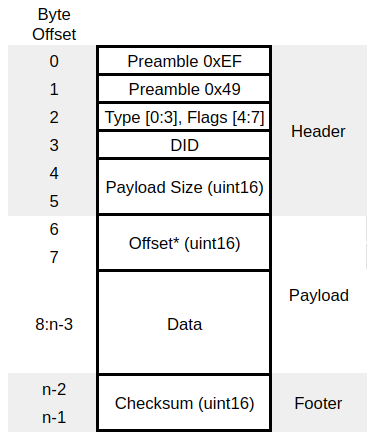
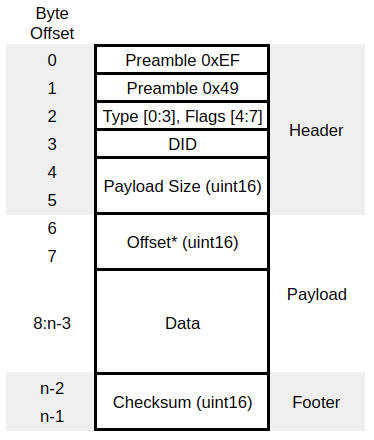
Mostly finished with essential v2 protocol documentation

diff --git a/docs/user-manual/com-protocol/isb.md b/docs/user-manual/com-protocol/isb.md
@@ -175,7 +175,7 @@ The following parser code uses less processor time to parse data by copying mult
 
 ## ISB Packet Structure
 
-The SDK is provided to encode and decode binary packets. This section can be disregarded if the SDK is used.  This section is provided to detail the packet and data structures format used in the binary protocol.  The IMX and GPX communicate using the following binary packet structure:
+The SDK is provided to encode and decode binary packets.  This section is provided to detail the packet structure used in the Inertial Sense binary (ISB) protocol standard in the 2.x protocol and 2.x software releases.  The IMX and GPX communicate using the following binary packet structure:
 
 ![packet_structure](images/pkt_structure.png)
 <p style="text-align: center;">
@@ -185,29 +185,47 @@ Figure 1 – Packet Structure
 </i>
 </span>
 </p>
-<sub>*The first two bytes of the payload may be a uint16 offset of the data for the target DID data set if the flag ISB_FLAGS_PAYLOAD_W_OFFSET is set.</sub> 
+### Packet with Data Offset
+
+*The first two bytes of the payload may be a uint16 offset for the data into the target data set if the flag ISB_FLAGS_PAYLOAD_W_OFFSET is set.  The following is an example of when the the data offset flag is set.
 
 ![Packet Structure with data offset](images/pkt_structure_w_offset.png)
 
 <p style="text-align: center;">
 <span style="color:grey">
 <i>
-Figure 2 – Packet Structure with Data Offset
+Figure 2 – Packet with Data Offset
 </i>
 </span>
 </p>
 
-**Packet data may be 0 bytes, depending on packet identifier (PID)**
+### Packet with No Payload
+
+Packet types `PKT_TYPE_STOP_BROADCASTS_ALL_PORTS`, `PKT_TYPE_STOP_DID_BROADCAST`, 
+`PKT_TYPE_STOP_BROADCASTS_CURRENT_PORT` have payload size zero and no payload.  
+
+![](images/pkt_structure_no_payload.png)
+
+<p style="text-align: center;">
+<span style="color:grey">
+<i>
+Figure 3 – Packet with No Payload
+</i>
+</span>
+</p>
+
+### Get Data Type Packet
 
 ![](images/pkt_structure_get_data.png)
 
 <p style="text-align: center;">
 <span style="color:grey">
 <i>
-Figure 2 – PKT_TYPE_GET_DATA Packet
+Figure 4 – PKT_TYPE_GET_DATA Packet
 </i>
 </span>
 </p>
+
 ### Packet Type
 
 The packet type is lower nibble (bits 0:3) at byte offset 2 in the packet.
@@ -232,31 +250,23 @@ The packet type is the upper nibble (bits 4:7) at byte offset 2 in the packet.
 | `ISB_FLAGS_EXTENDED_PAYLOAD` | 0x10  | Payload is larger than 2048 bytes and extends into next packet. |
 | `ISB_FLAGS_PAYLOAD_W_OFFSET` | 0x20  | The first two bytes of the payload are the byte offset of the payload data into the data set. |
 
-The format of the packet data is determined by the packet identifier.  For a data packet (PKT_TYPE_DATA (4) or
-PKT_TYPE_SET_DATA (5)) the first 12 bytes are always the data identifier (4 byte int), the offset into the data (4 byte int), and the length of data (4 byte int, not including the 12 bytes or packet header / footer).
+### Packet Checksum
 
+The ISB packet footer contains a Fletcher-16 (16-bit integer).  This checksum is computed for the entire packet byte sequence excluding the last two checksum bytes.  The following algorithm is used for this checksum.  The initial value (`cksum_init`) is zero.  
 
-**Packet footer (4 bytes)**<br>
-1 byte – checksum byte A (most significant byte)<br>
-1 byte – checksum byte B (middle byte)<br>
-1 byte – checksum byte C (least significant byte)<br>
-1 byte – packet stop byte (`0xFE`)<br>
-
-The packet checksum is a 24-bit integer that can be created as follows:
-
- * Start the checksum value at `0x00AAAAAA` and skip the packet start byte
- * Exclusive OR the checksum with the packet header (identifier, counter, and packet flags)
-    * checksum ^= packetId
-    * checksum ^= (counter << 8)
-    * checksum ^= (packetFlags << 16)
- * Exclusive OR the checksum with each data byte in packet, repeating the following three steps, until all data is included (i == dataLength).
-    * checksum ^= ( dataByte[i++] )
-    * checksum ^= ( dataByte[i++] << 8 )
-    * checksum ^= ( dataByte[i++] << 16 )
- * Decode encoded bytes (bytes prefixed by 0xFD) before calculating checksum for that byte.
- * Perform any endianness byte swapping AFTER checksum is fully calculated.
-
-If the CPU architecture does not match the packet flags, the bytes need to be swapped appropriately. The SDK does this automatically.
+```c++
+uint16_t is_comm_fletcher16(uint16_t cksum_init, const void* data, uint32_t size)
+{
+	checksum16_u cksum;
+	cksum.ck = cksum_init;
+	for (uint32_t i=0; i<size; i++)
+	{
+		cksum.a += ((uint8_t*)data)[i];
+		cksum.b += cksum.a;
+	}	
+	return cksum.ck;
+}
+```
 
 ## Stop Broadcasts Packets
 
@@ -267,10 +277,10 @@ Two *stop all broadcasts* packets are special packet types that will disable all
 ```c++
 is_comm_stop_broadcasts_all_ports(portWrite, 0, &comm);
 ```
-Hexadecimal value of the stop all broadcasts packet.  
+The hexadecimal string to stop all broadcasts on all ports is: 
 
 ```c++
-0xff 0x06 0x00 0x11 0xbb 0xaa 0xac 0xfe
+0xef 0x49 0x06 0x00 0x00 0x00 0x3e 0x1f
 ```
 
 ### Current Port Only
@@ -279,10 +289,20 @@ Hexadecimal value of the stop all broadcasts packet.
 is_comm_stop_broadcasts_current_port(portWrite, 0, &comm);
 ```
 
-Hexadecimal value of the stop all broadcasts packet.  
+The hexadecimal string to stop all broadcasts on the current port is:  
 
 ```c++
-0xff 0x08 0x00 0x11 0xbb 0xaa 0xa2 0xfe
+0xef 0x49 0x08 0x00 0x00 0x00 0x40 0x27
+```
+
+## RMC Presets
+
+### RMC Preset Stream PPD
+
+The hexadecimal string for the RMC Preset enable PPD is:
+
+```c++
+0xef 0x49 0x05 0x09 0x0c 0x00 0xe2 0x3c 0x35 0x01 0x90 0x00 0x00 0xc0 0x00 0x01 0x00 0x00 0xf7 0xb0
 ```
 
 
